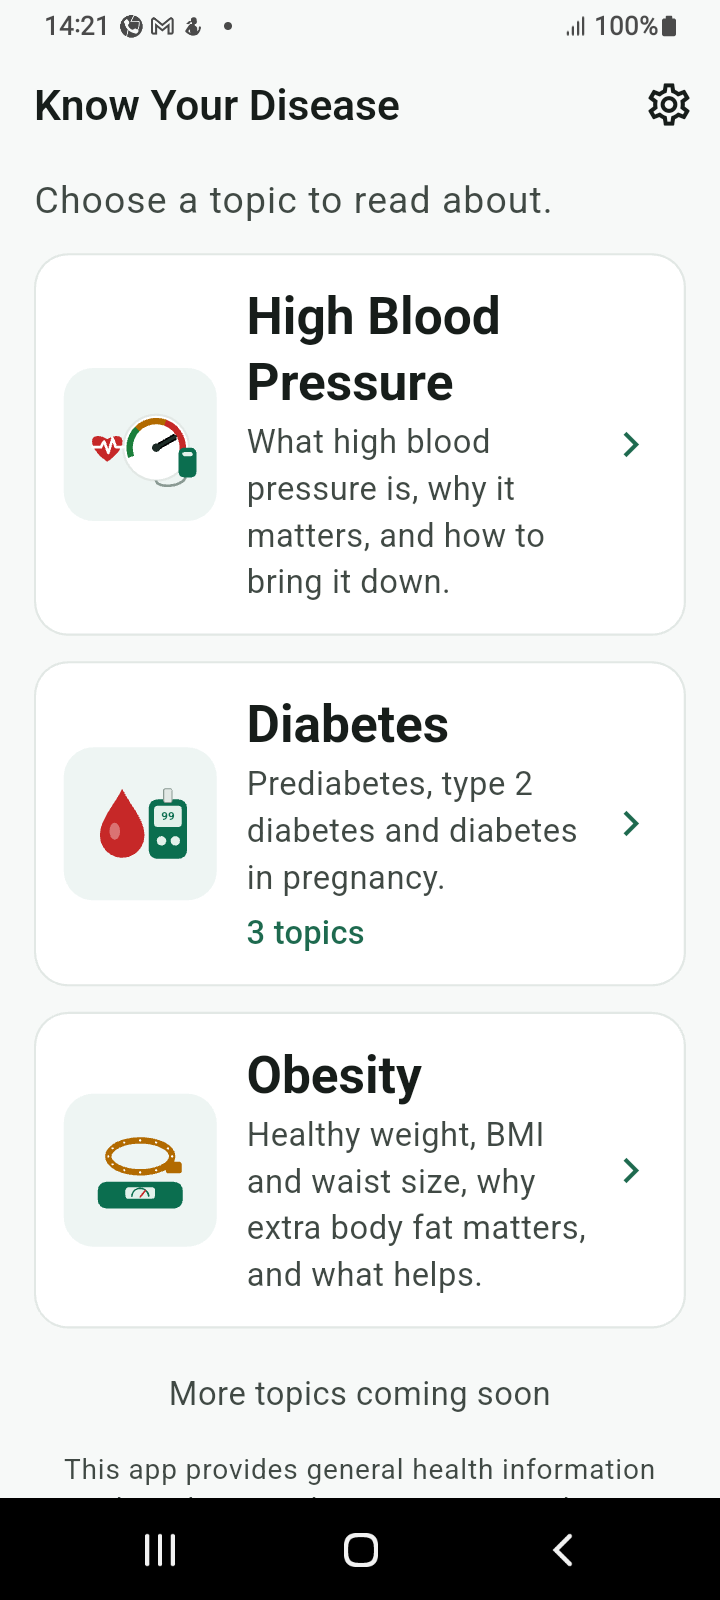
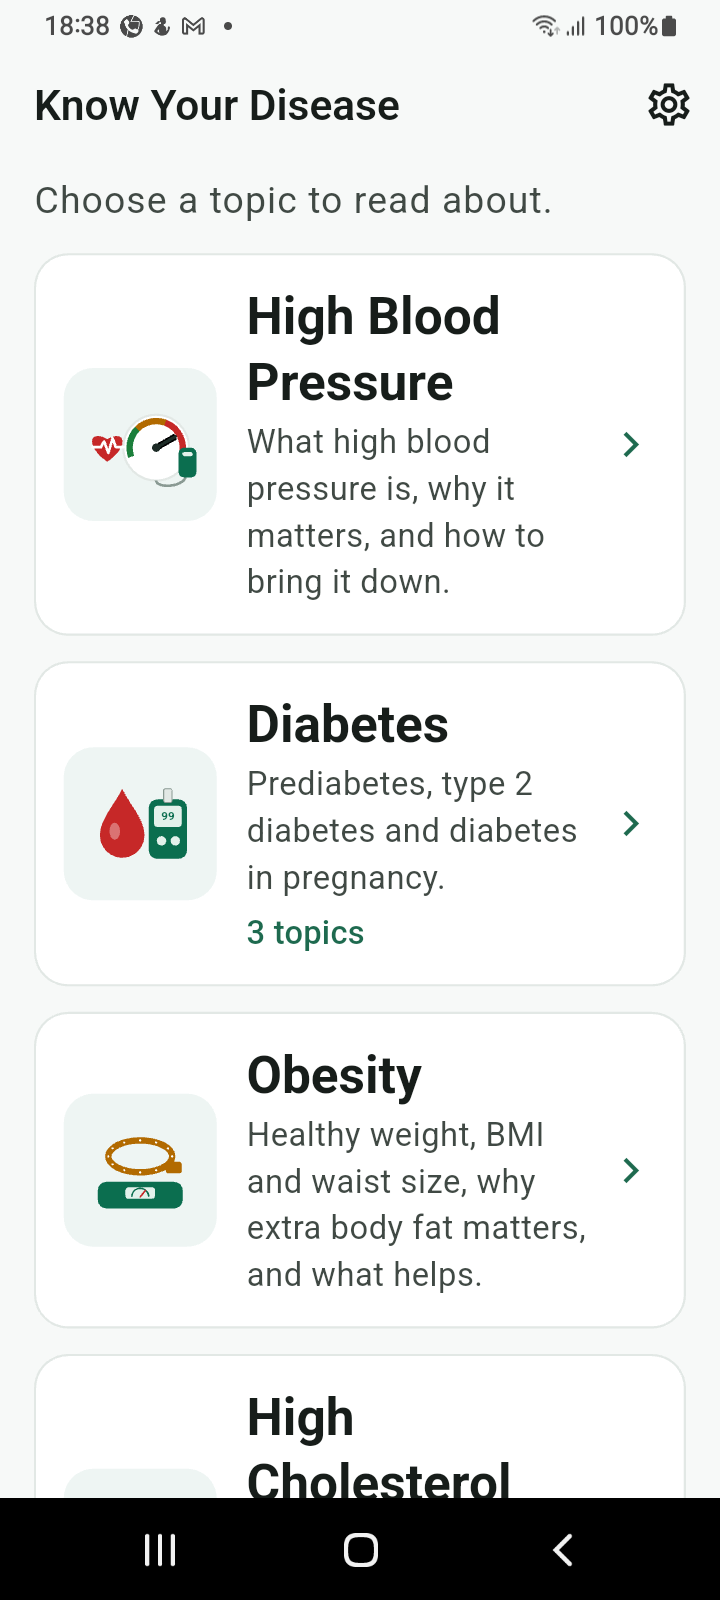
store: 1.1.0 phone screenshots (new topics, animations), 9:16 with Urdu subtitle
Play's asset library now needs 9:16, so make_screenshots.py frames at 1080x1920.

diff --git a/scripts/make_screenshots.py b/scripts/make_screenshots.py
@@ -1,5 +1,5 @@
 """Frames raw phone captures (store/graphics/screenshots/NN_name.png, any
-size) into Play Store phone screenshots: 1080×2160 (Play's 2:1 limit), suite
+size) into Play Store phone screenshots: 1080×1920 (9:16, which Play's asset library requires), suite
 green background, a one-line caption on top, the capture below with rounded
 corners. Run from the repo root:  python3 scripts/make_screenshots.py
 """
@@ -10,20 +10,21 @@ from PIL import Image, ImageDraw, ImageFilter, ImageFont
 
 SRC = 'store/graphics/screenshots'
 OUT = 'store/graphics/phone_screenshots'
-W, H = 1080, 2160
+W, H = 1080, 1920
 LIGHT, DARK = (18, 138, 99), (7, 78, 56)
 URDU_FONT = 'app/assets/fonts/NotoNastaliqUrdu-Bold.ttf'
 
-# Caption per capture (file stem without the NN_ prefix).
+# Caption per capture (file stem without the NN_ prefix): English headline,
+# Urdu line under it.
 CAPTIONS = {
-    'home': 'Plain facts about common diseases',
-    'topic': 'The same clear steps for every topic',
-    'section': 'Key numbers, explained simply',
-    'doctor': 'Know when to see a doctor',
-    'reference': 'A trusted source behind every fact',
-    'group': 'Prediabetes, type 2 and pregnancy',
-    'urdu': 'اردو میں بھی',
-    'obesity': 'Healthy weight, BMI and waist size',
+    'home': ('Plain facts about common diseases', 'عام بیماریوں کے بارے میں آسان حقائق'),
+    'newtopics': ('Three new topics added', 'کولیسٹرول، مائیگرین اور چھاتی کا کینسر'),
+    'topic': ('The same clear steps for every topic', 'ہر موضوع کے لیے ایک جیسے واضح مراحل'),
+    'selfcheck': ('Short animations show you how', 'مختصر اینیمیشنز سے سمجھیں'),
+    'section': ('Key numbers, explained simply', 'اہم نمبر، آسان الفاظ میں'),
+    'doctor': ('Know when to see a doctor', 'جانیں کب ڈاکٹر کو دکھانا ہے'),
+    'reference': ('A trusted source behind every fact', 'ہر بات کے پیچھے معتبر ماخذ'),
+    'urdu': ('Read in Urdu or English', 'اردو یا انگریزی میں پڑھیں'),
 }
 
 
@@ -40,19 +41,23 @@ def font(text, size):
     return ImageFont.truetype('/usr/share/fonts/truetype/dejavu/DejaVuSans-Bold.ttf', size), False
 
 
-def frame(path, caption):
-    img = background()
-    d = ImageDraw.Draw(img)
-    size = 58 if not caption.isascii() else 54
-    while True:  # shrink until the caption fits with a margin
-        f, urdu = font(caption, size)
+def line(d, text, size, top, fill):
+    while True:  # shrink until the line fits with a margin
+        f, urdu = font(text, size)
         kwargs = {'direction': 'rtl', 'language': 'ur'} if urdu else {}
-        box = d.textbbox((0, 0), caption, font=f, **kwargs)
+        box = d.textbbox((0, 0), text, font=f, **kwargs)
         if box[2] - box[0] <= W - 120 or size <= 30:
             break
         size -= 2
-    d.text(((W - (box[2] - box[0])) / 2 - box[0], 120 - box[1] + (0 if not urdu else -10)), caption,
-           font=f, fill=(255, 255, 255), **kwargs)
+    d.text(((W - (box[2] - box[0])) / 2 - box[0], top - box[1]), text, font=f, fill=fill, **kwargs)
+
+
+def frame(path, caption):
+    img = background()
+    d = ImageDraw.Draw(img)
+    en, ur = caption
+    line(d, en, 54, 90, (255, 255, 255))
+    line(d, ur, 42, 180, (214, 240, 228))
 
     shot = Image.open(path).convert('RGB')
     # Hide the phone's status bar (clock, personal notification icons).
@@ -79,5 +84,5 @@ if __name__ == '__main__':
     for path in sorted(glob.glob(f'{SRC}/*.png')):
         stem = os.path.splitext(os.path.basename(path))[0]
         key = stem.split('_', 1)[1] if '_' in stem else stem
-        frame(path, CAPTIONS.get(key, '')).save(f'{OUT}/{stem}.png', optimize=True)
+        frame(path, CAPTIONS.get(key, ('', ''))).save(f'{OUT}/{stem}.png', optimize=True)
         print('framed', stem)

diff --git a/store/listing/store_listing.md b/store/listing/store_listing.md
@@ -133,7 +133,7 @@ No camera, location, contacts, storage, notification or alarm permissions.
 ## Assets
 - Hi-res icon 512×512: `store/graphics/play_store_icon_512.png`
 - Feature graphic 1024×500: `store/graphics/feature_graphic.png`
-- Phone screenshots 1080×2160 (2:1), upload in order: `store/graphics/phone_screenshots/`
+- Phone screenshots 1080×1920 (9:16), upload in order: `store/graphics/phone_screenshots/`
 - Sources: `scripts/make_icons.py` (icon and feature graphic), `scripts/make_screenshots.py`
   (framed screenshots from device captures), `scripts/make_graphics.py` (in-app graphics)
 
